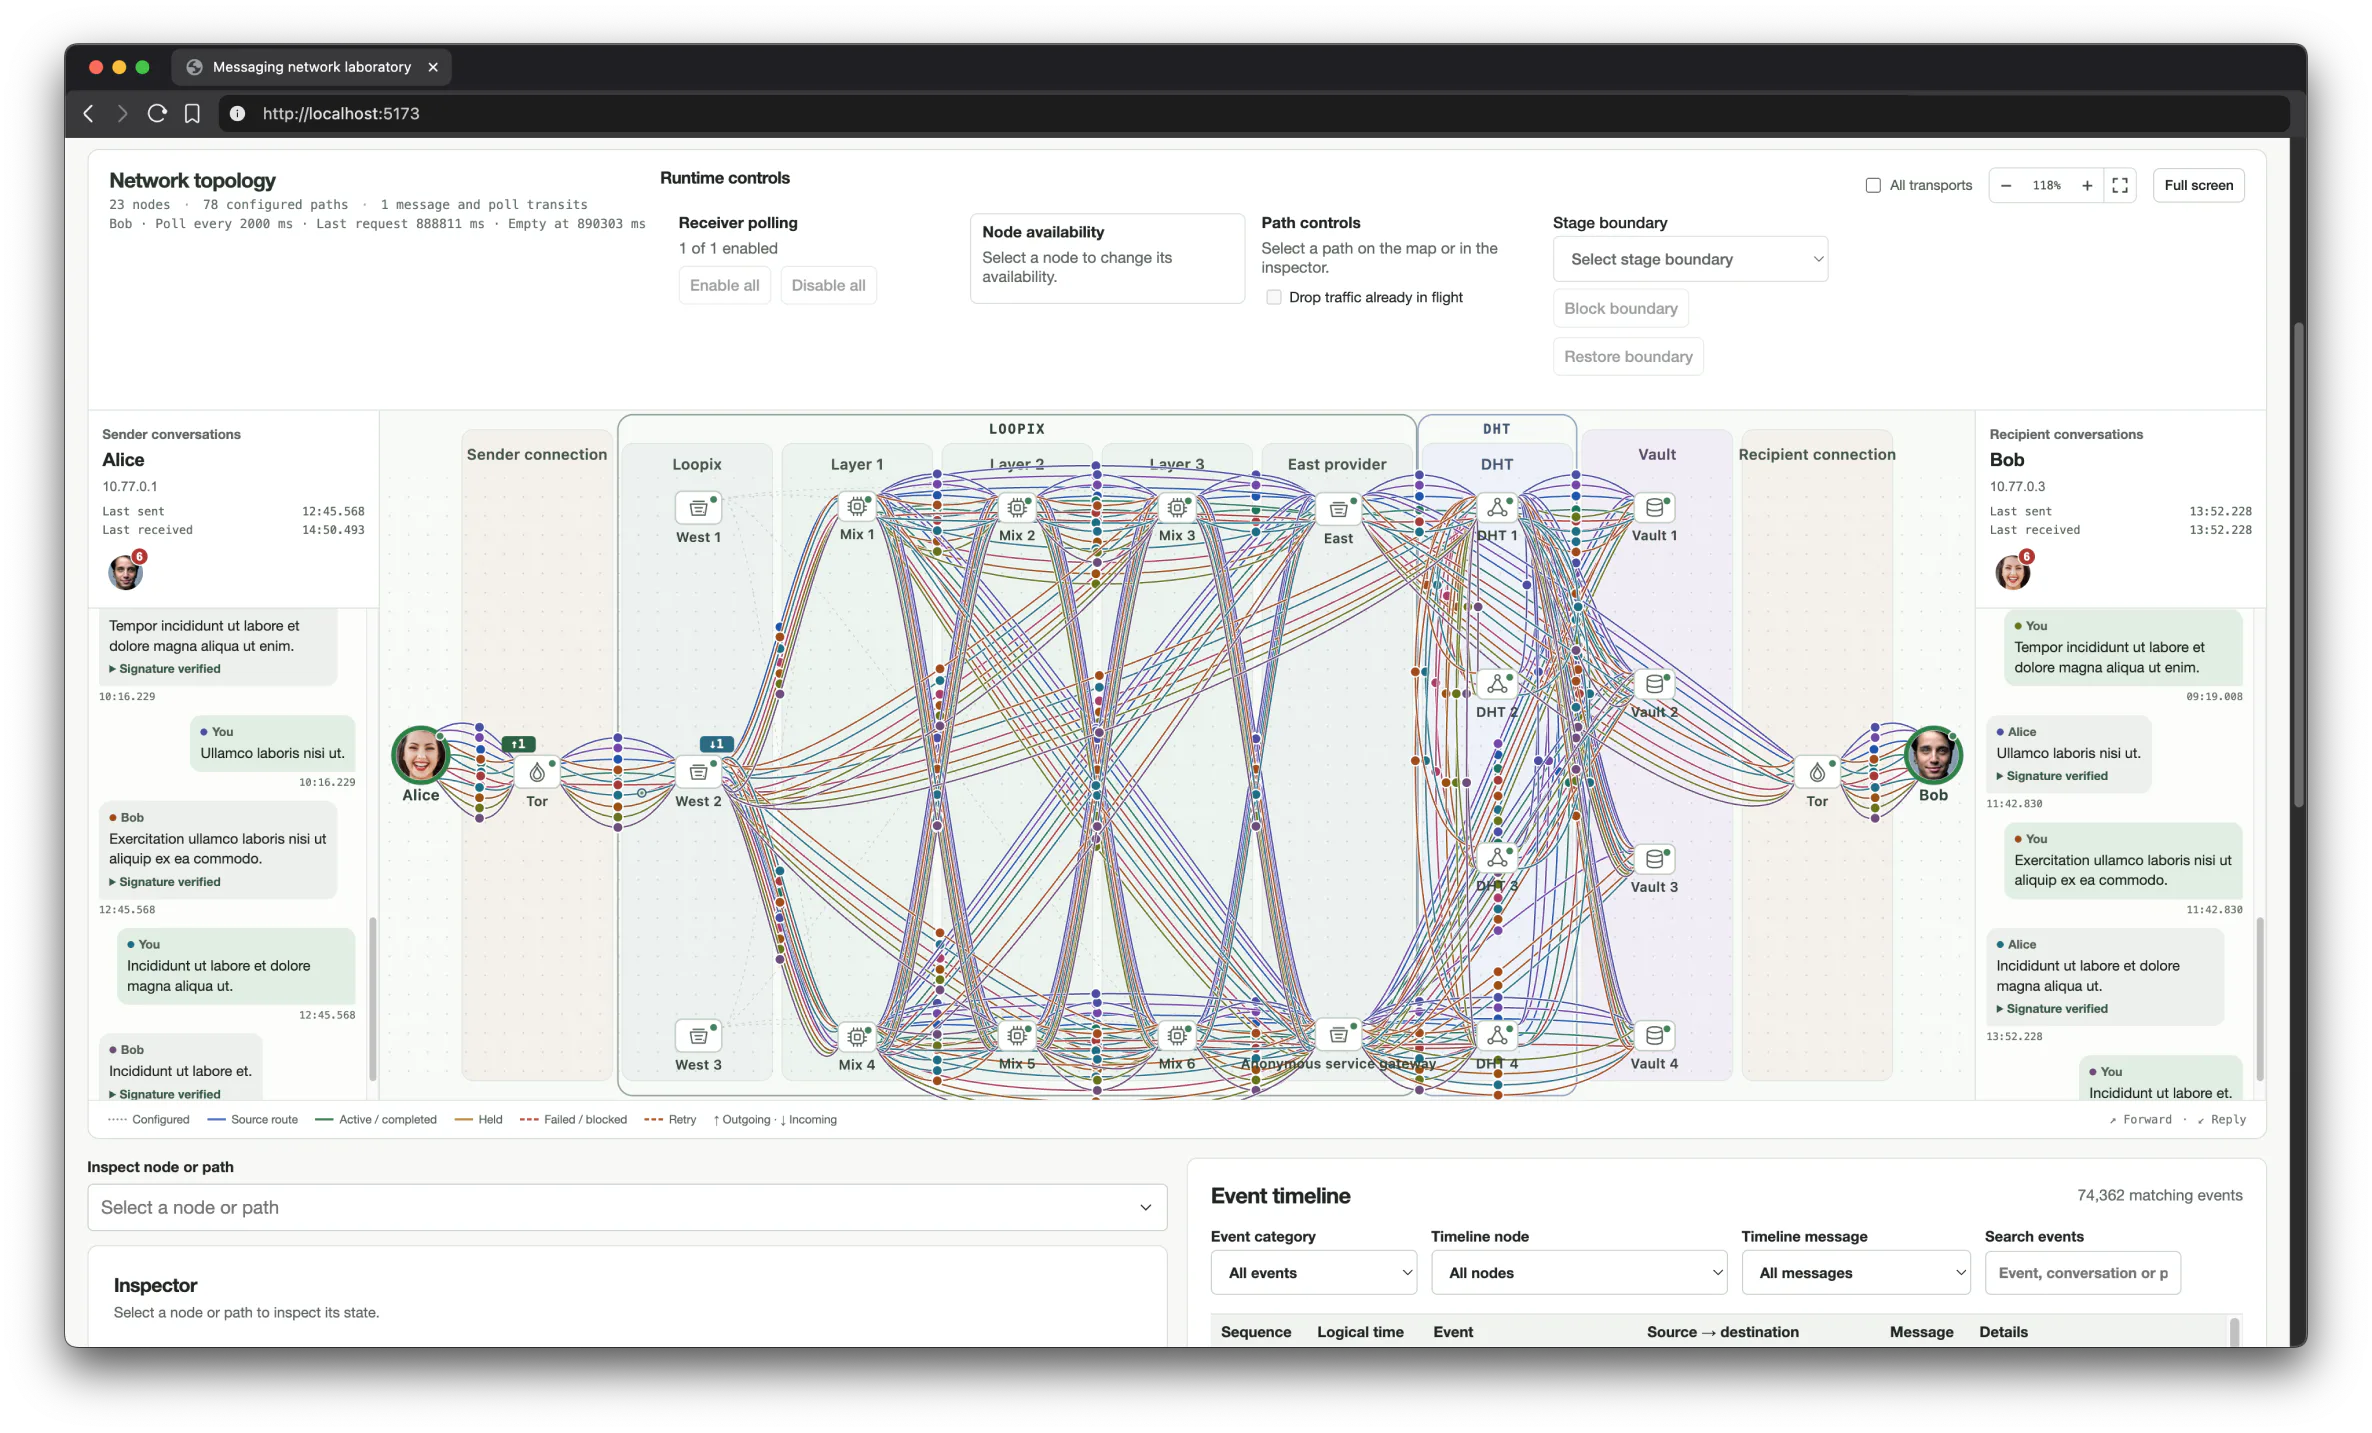
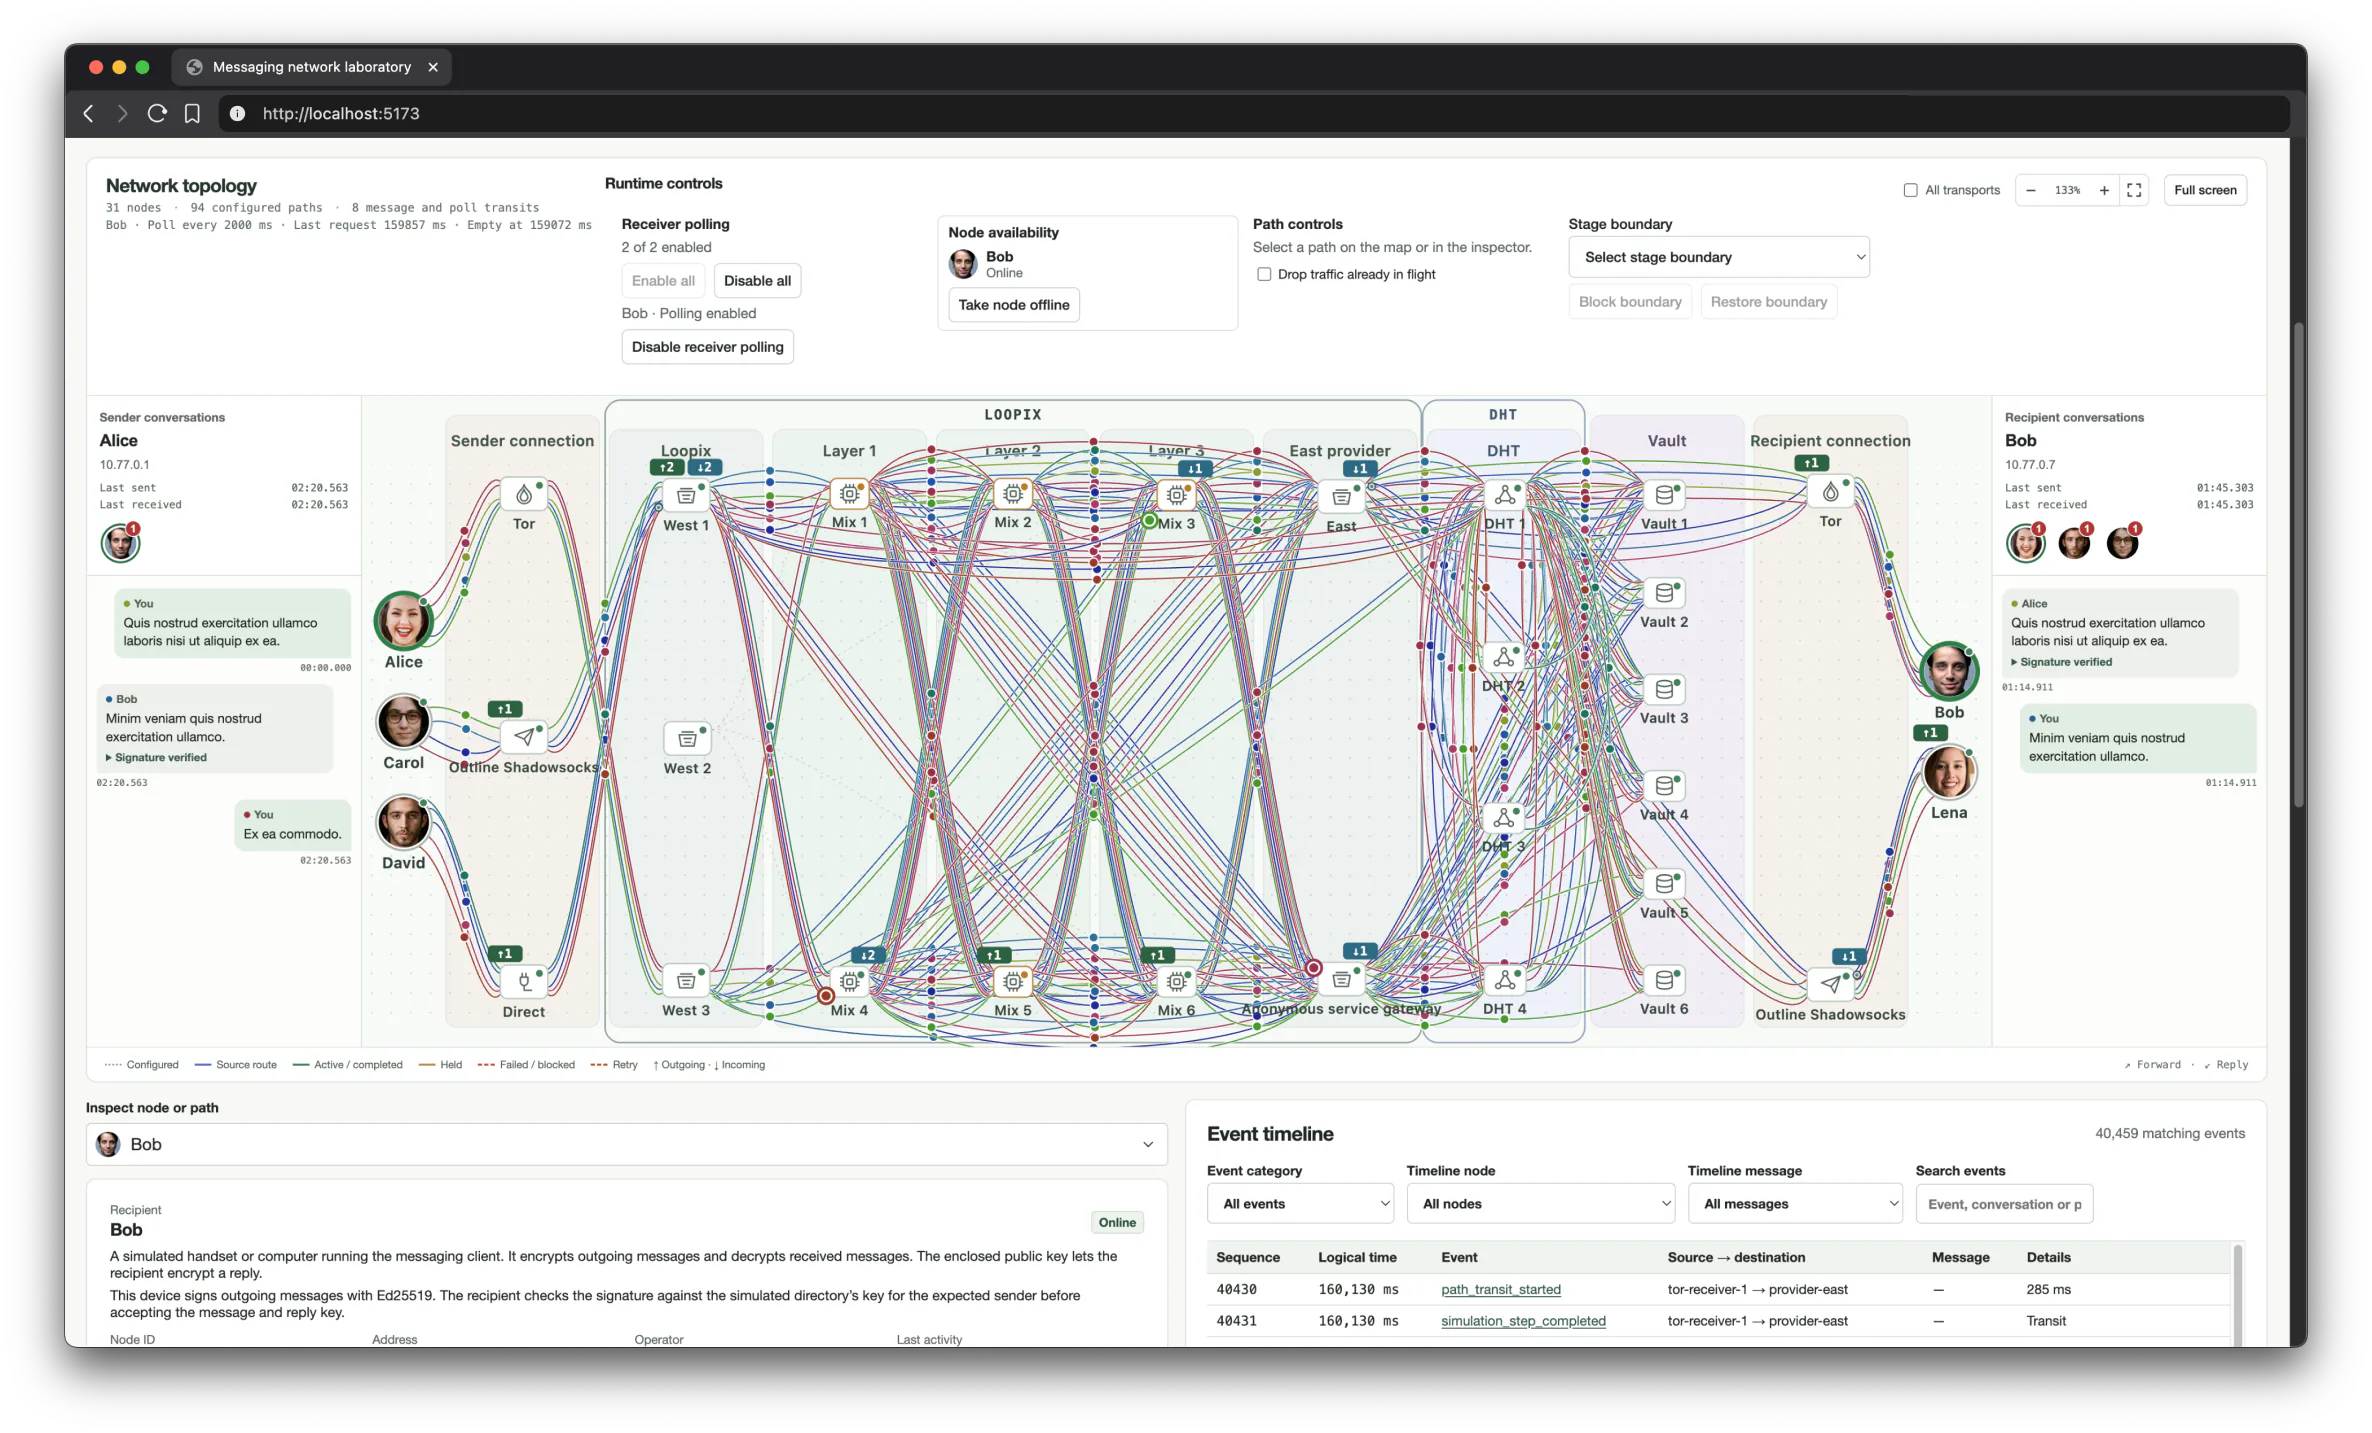
JMBP21 Codex GPT-5: Expand storage roadmap and refresh screenshot
Model: GPT-5 High
Message:
- replace the README laboratory WebP with the newly supplied Sharp conversion
- define vaults as bulk ciphertext stores separate from Kademlia, providers and mix relays
- add private and public large-file manifest, encryption, chunking and reassembly work
- add signed message sequencing, gap handling, replay and concurrent-device work
- preserve current implementation limits and protocol boundaries

diff --git a/docs/production-roadmap.md b/docs/production-roadmap.md
@@ -92,7 +92,9 @@ That is not the preferred privacy deployment. A machine hosting several roles be
 
 **Meaning:** an independent operator could install the network software, enable the vault role, register available capacity for a limited period and later drain or leave the network. A production vault would be a persistent encrypted-blob service on a VPS, dedicated server or durable object-storage platform. It should receive only opaque fragment capabilities, fixed-size ciphertext and expiry information, never plaintext or participant private keys.
 
-**Current state:** vaults are fixed in-memory Python objects created with each simulation. The engine places encrypted fragments across distinct logical vault IDs and can read an alternative replica after an outage, but vaults cannot join, renew, drain or leave. There is no durable disk or object store, membership directory, retention commitment, automatic replica repair or proof that two vault IDs belong to different operators. Abrupt loss of enough configured replicas makes a fragment unavailable.
+**Storage boundary:** vaults are bulk ciphertext stores, not Kademlia peers, mailboxes or mix relays. A vault accepts an opaque fragment capability, fixed-size encrypted bytes, integrity information and an expiry policy; it persists and returns those exact bytes. It should not receive the decryption key, intended recipient, conversation position or complete file manifest. The DHT maps opaque handles to small encrypted manifests, providers queue message handles for polling, and vaults provide the capacity and availability for the referenced ciphertext fragments.
+
+**Current state:** vaults are fixed in-memory Python objects created with each simulation. Each stores fragment bytes, placements and read, write and integrity counters within a configured 16 MiB capacity. The engine places encrypted fragments across distinct logical vault IDs and can read an alternative replica after an outage, but vaults cannot join, renew, drain or leave. There is no durable disk or object store, membership directory, retention enforcement, automatic replica repair or proof that two vault IDs belong to different operators. Abrupt loss of enough configured replicas makes a fragment unavailable.
 
 **Production work:** define signed, expiring vault descriptors containing the operator identity, storage key, endpoints, capacity, supported object sizes and retention limits. Admission must include Sybil resistance and independent reachability and capacity checks rather than trusting self-declared identities. Placement must spread replicas across operators, subnets, regions and failure domains; several vault IDs owned by one operator must not count as independent replicas. Add authenticated capability-based writes and reads, fixed-size encrypted objects, signed storage receipts, durable expiry and deletion, quotas, abuse controls and key rotation. Detect expired or unresponsive vaults and restore the required replica count from a healthy ciphertext copy without exposing plaintext. Planned shutdown should enter a draining state and stop accepting new fragments until repairs are acknowledged. Evaluate erasure coding separately from whole-fragment replication and document its availability, repair-bandwidth and metadata consequences. Permissionless entry and exit are safe only while monitoring and repair keep sufficient independent copies available.
 
@@ -135,3 +137,19 @@ That is not the preferred privacy deployment. A machine hosting several roles be
 **Current state:** all DHT peers are created when a simulation starts, receive locally generated random 160-bit IDs and `sim://` addresses, and join through the first generated peer as a fixed bootstrap seed. An online peer can retry a failed bootstrap and retain learned contacts, but external operator enrolment, signed descriptors, bootstrap diversity and decentralised admission do not exist.
 
 **Production work:** bind each DHT node ID to a cryptographic identity or verifiable derivation so an operator cannot freely position many Sybil nodes around a target key. Publish signed, expiring descriptors containing endpoints, protocol versions, keys, capacity and operator or failure-domain information. Clients and joining peers should obtain several bootstrap records from independent sources, verify them, perform ordinary Kademlia self-lookups and reject conflicting identities or stale endpoints. Define admission, rate limits, eclipse resistance, operator diversity, churn handling, record repair and revocation. Kademlia's XOR metric should determine record responsibility; a central service should not assign individual messages to preferred peers. Align this work with [provider registration and failover](#2-decentralised-provider-registration-selection-replication-and-failover), [provider endpoint discovery](#8-provider-endpoint-discovery-and-gateway-routing) and the relay-health directory without collapsing those roles into one trusted registry.
+
+## 17. Large encrypted files and public content distribution
+
+**Meaning:** support files larger than an ordinary message by streaming them into bounded chunks, storing the bulk ciphertext in replicated vaults and publishing only a compact, versioned manifest through the DHT. Private distribution would encrypt with a random content key, wrap that key for one or more recipient public keys and expose a random or blinded capability. Public distribution could publish a signed, content-addressed manifest or publisher namespace that anyone with the public address can resolve and verify. Public content may remain unencrypted, or use a disclosed content key when encryption is required only for transport and storage.
+
+**Current state:** the product and API expose text-message envelopes, not file attachments. The underlying storage model can already split arbitrary ciphertext into ordered fragments, hash every fragment, select distinct vault replicas, publish an encrypted manifest to Kademlia and reconstruct the ciphertext only after fragment and complete-payload digests pass. Defaults are deliberately small for simulation: 128-byte chunks, two replicas and 16 MiB per vault, with a maximum configured chunk size of 4,096 bytes. There is no filename or media-type metadata, streaming API, range resume, progress UI, public address, recipient access-control list, deletion protocol or production capacity model.
+
+**Production work:** keep bulk chunks out of Kademlia values so DHT replication, refresh and lookup remain bounded. Define a signed manifest containing version, encrypted filename and media type where private, total length, chunk or erasure-shard map, per-part digest or Merkle root, replica capabilities, publisher identity, expiry and content-key envelopes. Add streaming authenticated encryption, bounded memory, back-pressure, resumable upload and download, partial verification, replica repair and garbage collection. Compare whole-chunk replication with erasure coding under vault churn. Private addresses should be unguessable capabilities with recipient key wrapping; public addresses may use a content hash or signed publisher namespace. Avoid convergent encryption by default because it reveals when encrypted files are equal. Define quota, abuse, copyright-reporting and malware-handling boundaries without claiming that vault operators can inspect encrypted plaintext.
+
+## 18. Message sequencing, gaps and concurrent devices
+
+**Meaning:** define how a conversation detects duplicates, missing messages and causal relationships when mix delays, retries, DHT retrieval and recipient polling can deliver valid messages out of order.
+
+**Current state:** each staged message has a conversation ID, exchange number and direction, and the signed envelope binds its delivery context. The deterministic scenario advances a conversation after the preceding message reaches the receiving device, while device logs and conversation panes preserve actual append and arrival order. This is scenario orchestration, not a distributed ordering protocol. There is no signed per-device sequence chain, predecessor hash, gap request, out-of-order buffer, multi-device merge rule or replay window spanning separate runs.
+
+**Production work:** give every message a unique identifier and bind a signed, encrypted per-conversation sender or device sequence plus previous-message hash or causal parent. Deduplicate by message ID, detect gaps without treating later valid messages as corrupt, retain late arrivals and represent permanently missing entries explicitly. Replies should reference the message they answer rather than depending only on display order. Define independent chains and merge rules for concurrent devices, device restoration, key rotation and simultaneous sends. Keep protocol ordering separate from presentation: the client may offer causal grouping, but it must not silently reorder evidence using an untrusted wall-clock timestamp. Test duplicates, replay, gaps, late delivery, simultaneous messages, device loss, key changes and permanent fragment loss.
